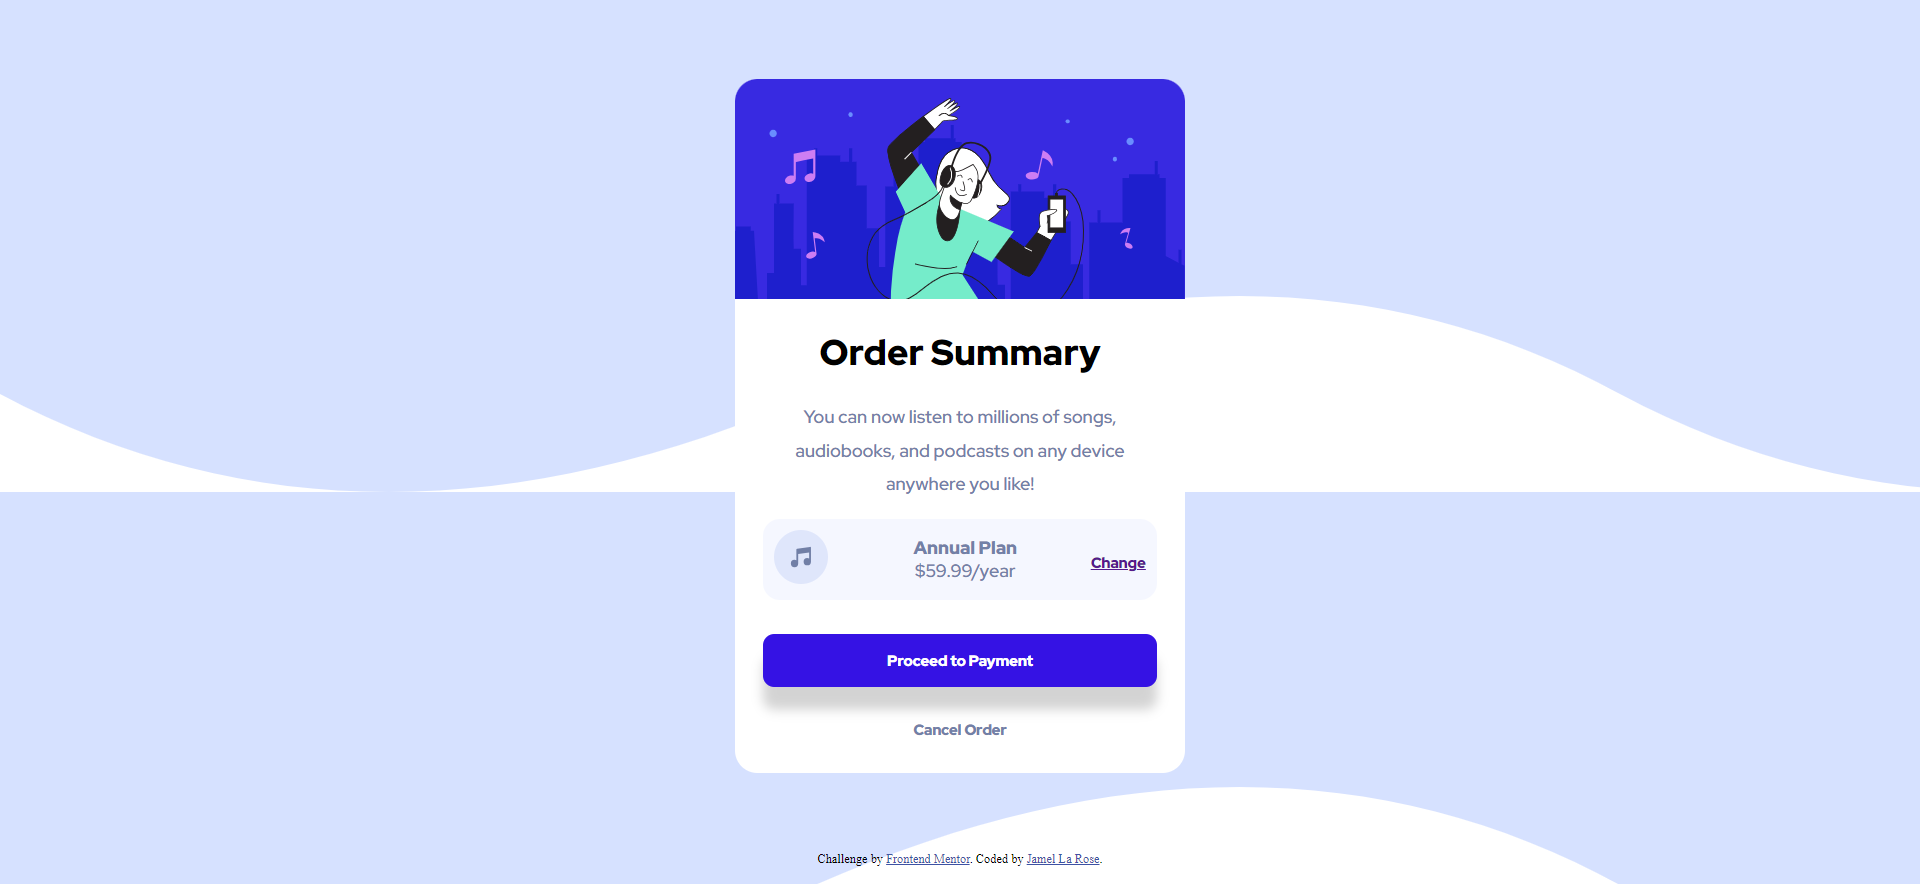
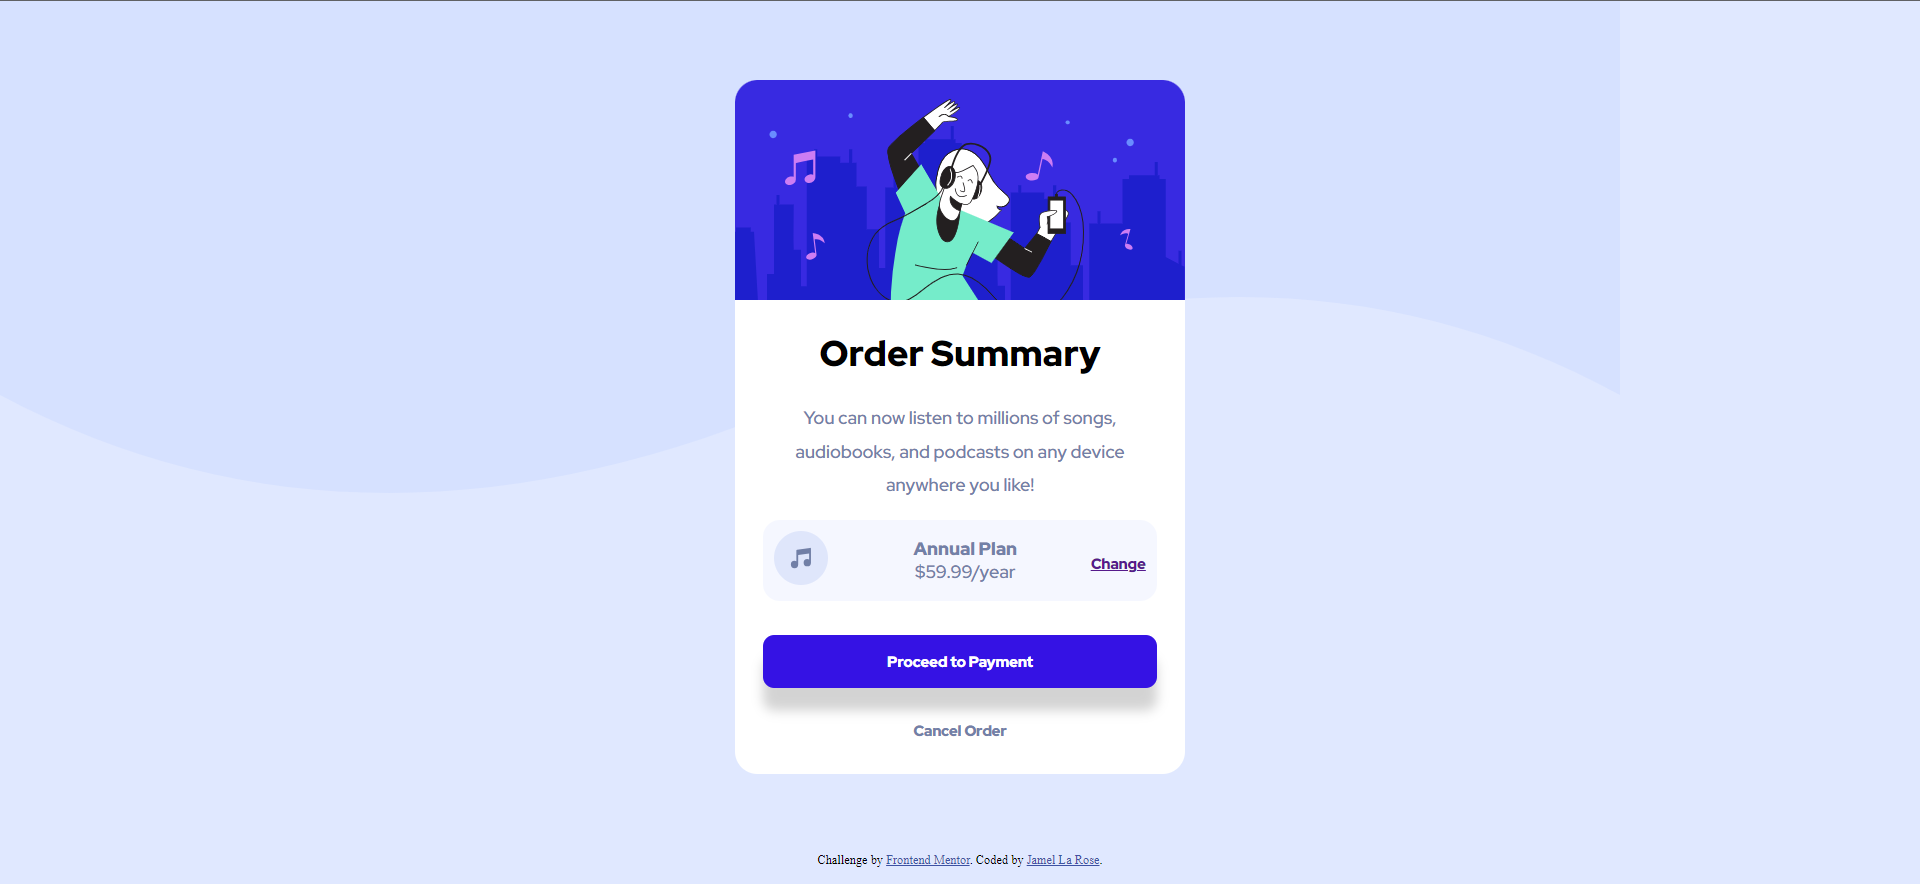
Add files via upload

diff --git a/style.css b/style.css
@@ -1,5 +1,7 @@
 body {
+	background: hsl(225, 100%, 94%);
 	background-image: url("./images/pattern-background-desktop.svg");
+	background-repeat: no-repeat;
 	background-attachment: fixed;
 }
 
